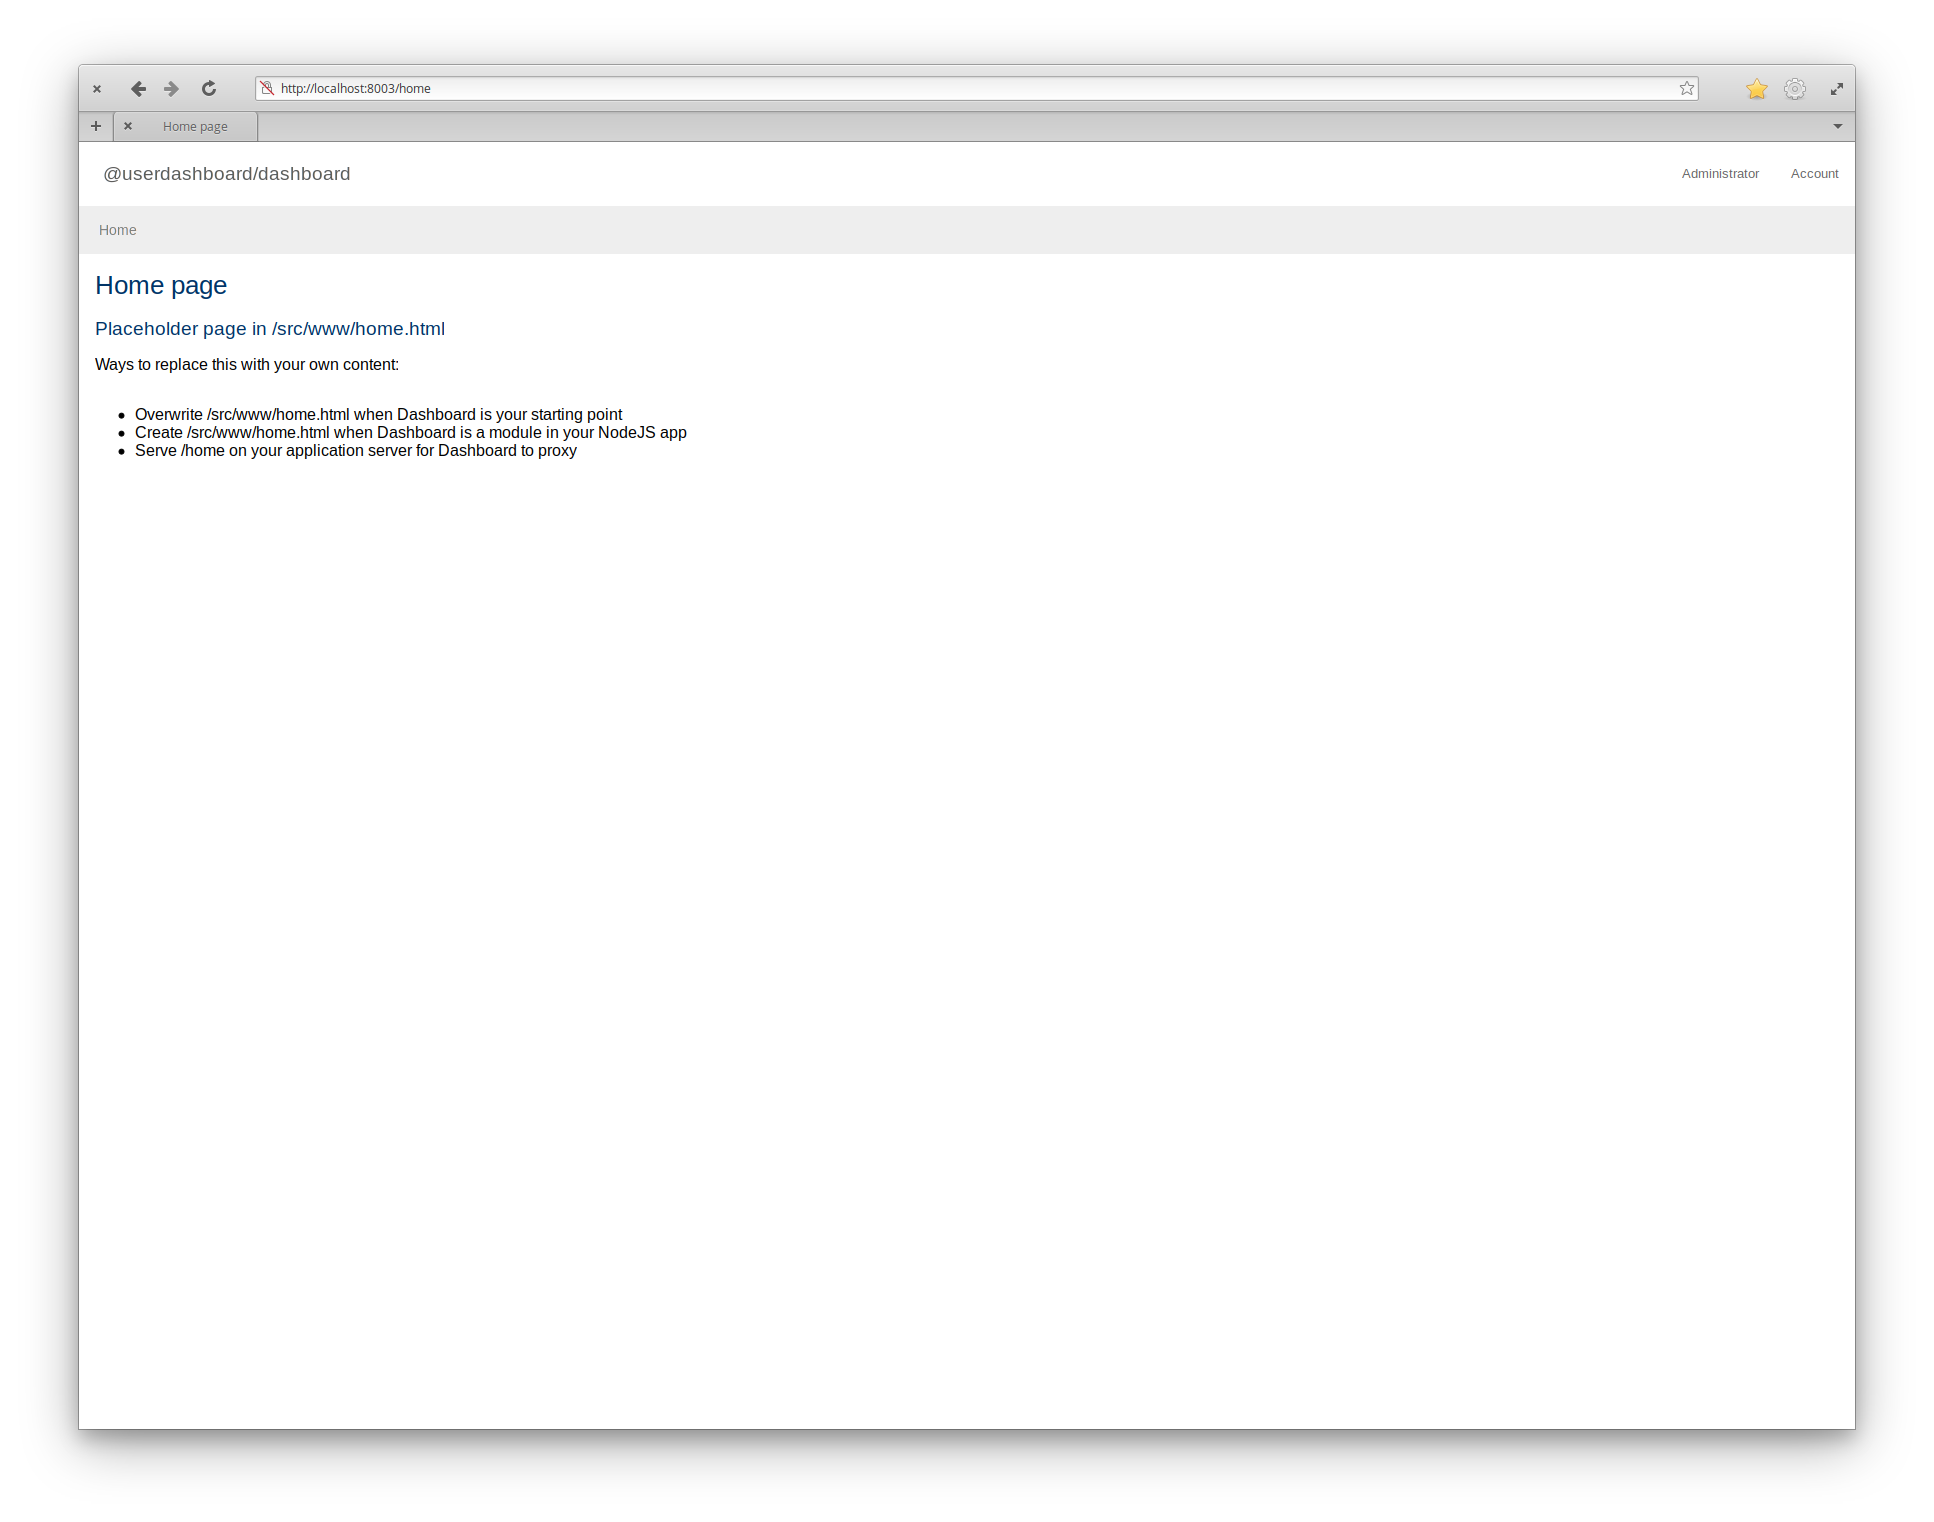
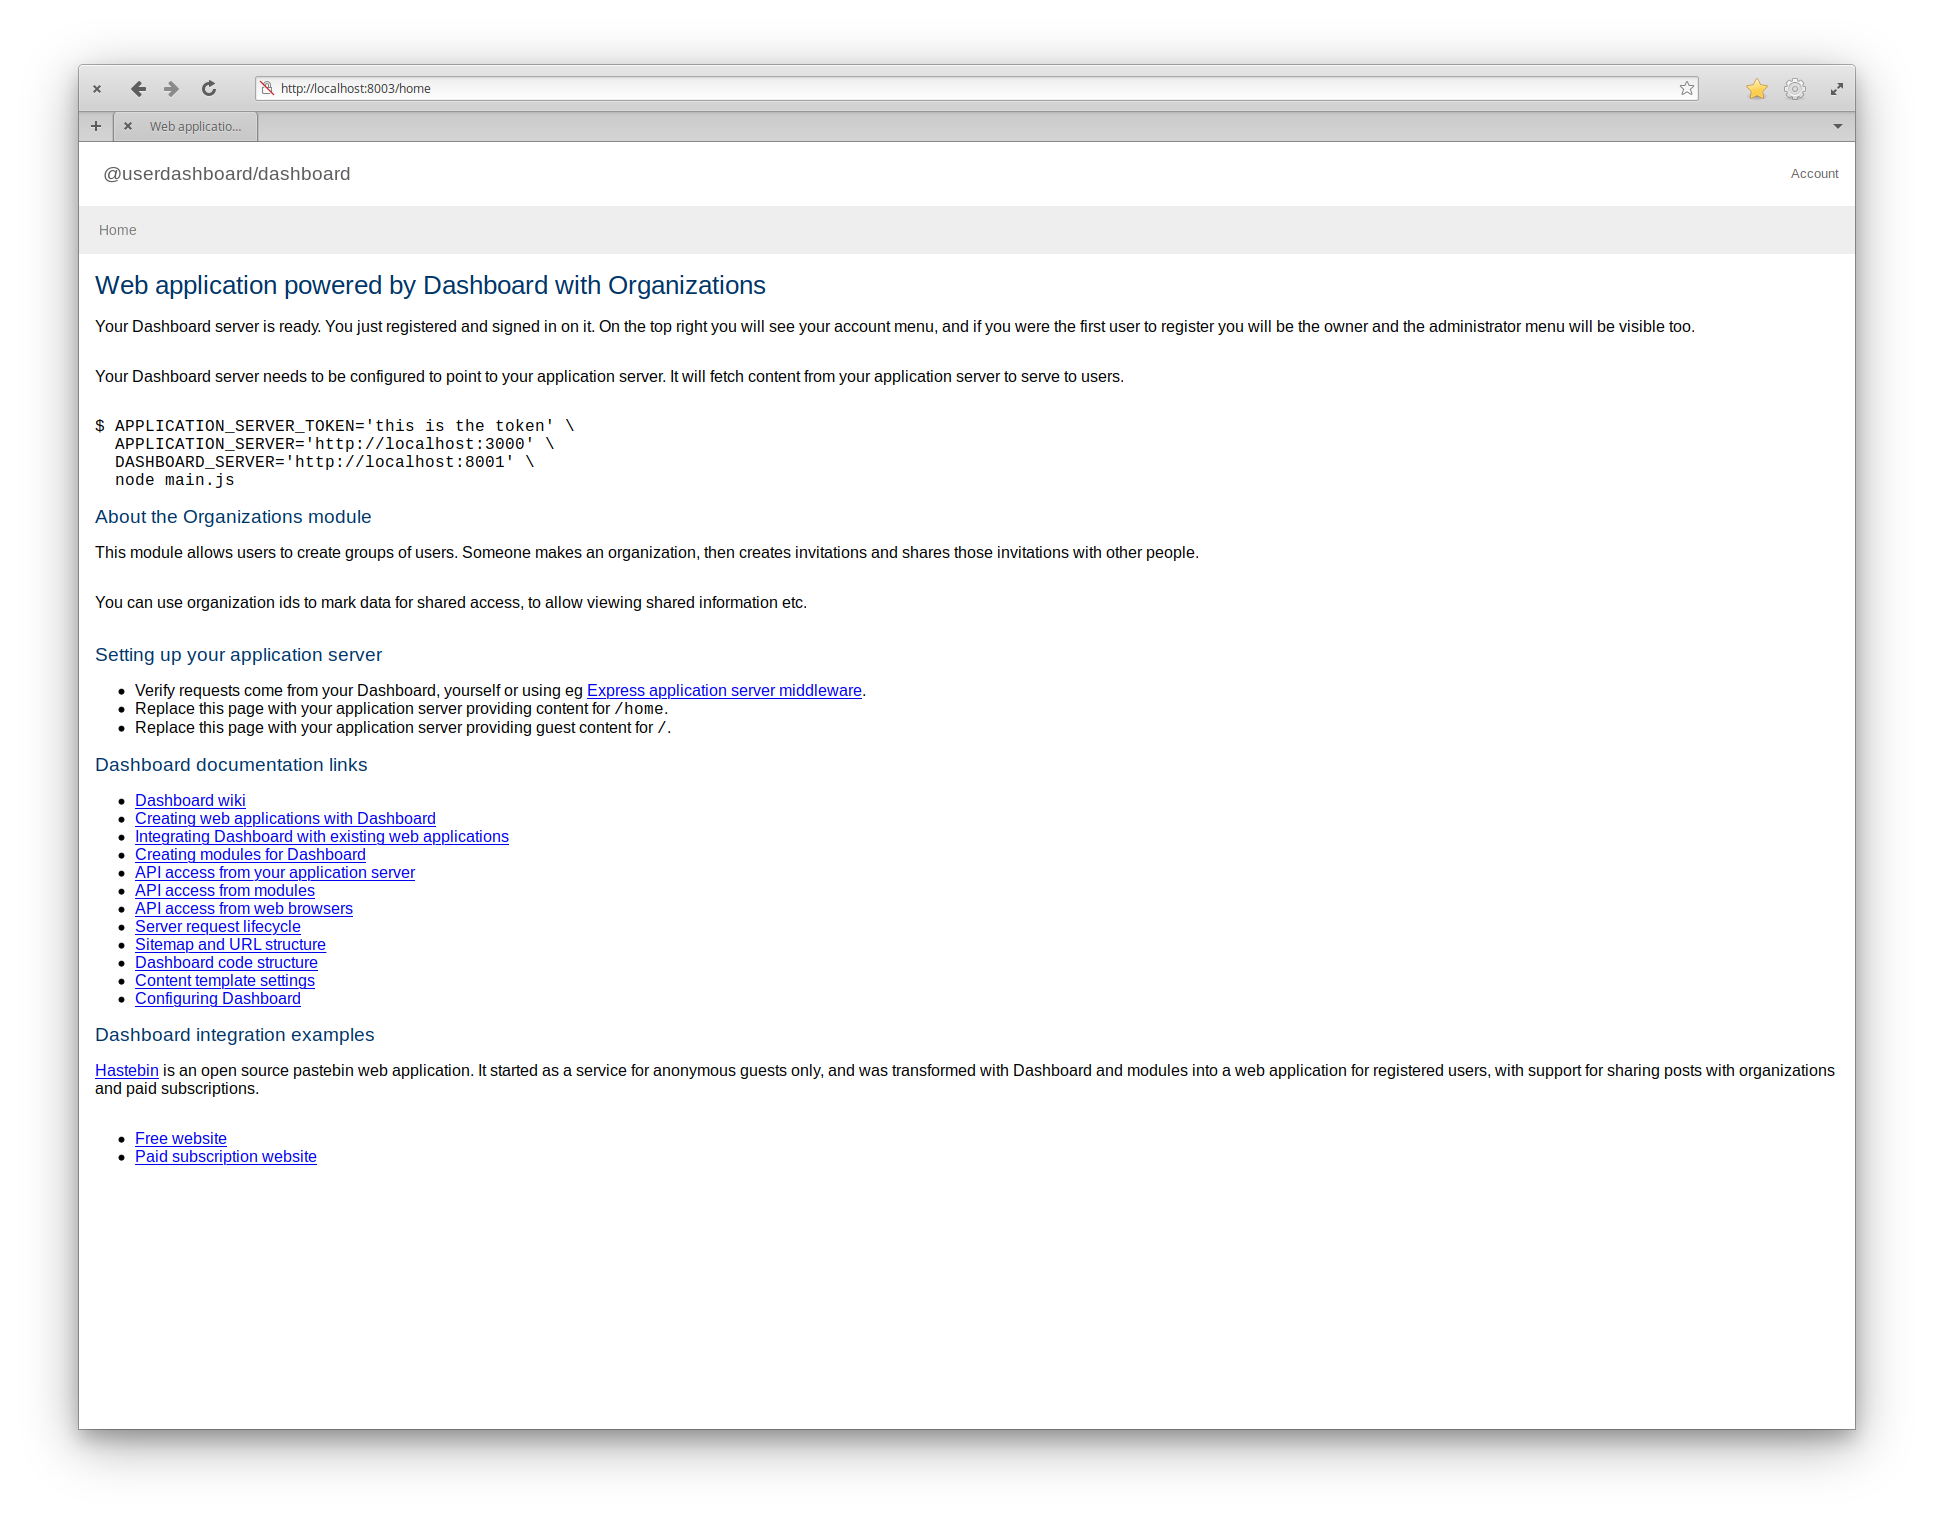
Updated sample home page with documentation links

diff --git a/src/www/home.html b/src/www/home.html
@@ -1,0 +1,50 @@
+<html>
+  <head>
+    <title>Web application powered by Dashboard with Organizations</title>
+    <link href="/public/pure-min.css" rel="stylesheet" />
+    <link href="/public/content.css" rel="stylesheet" />
+    <template id="navbar">
+      <a href="home">Home</a>
+    </template>
+    <base target="_top" href="/" />
+  </head>
+  <body>
+    <h1>Web application powered by Dashboard with Organizations</h1>
+    <p>Your Dashboard server is ready.  You just registered and signed in on it.  On the top right you will see your account menu, and if you were the first user to register you will be the owner and the administrator menu will be visible too.</p>  
+    <p>Your Dashboard server needs to be configured to point to your application server. It will fetch content from your application server to serve to users.</p>
+<pre>$ APPLICATION_SERVER_TOKEN="this is the token" \
+  APPLICATION_SERVER="http://localhost:3000" \
+  DASHBOARD_SERVER="http://localhost:8001" \
+  node main.js</pre>
+    <h2>About the Organizations module</h2>
+    <p>This module allows users to create groups of users.  Someone makes an organization, then creates invitations and shares those invitations with other people.</p>
+    <p>You can use organization ids to mark data for shared access, to allow viewing shared information etc.</p>
+    <h2>Setting up your application server</h2>
+    <ul>
+      <li>Verify requests come from your Dashboard, yourself or using eg <a href="https://github.com/userdashboard/express-application-server">Express application server middleware</a>.</li>
+      <li>Replace this page with your application server providing content for <code>/home</code>.</li>
+      <li>Replace this page with your application server providing guest content for <code>/</code>.</li>
+    </ul>
+    <h2>Dashboard documentation links</h2>
+    <ul>
+      <li><a href="https://github.com/userdashboard/dashboard/wiki">Dashboard wiki</a></li>
+      <li><a href="https://github.com/userdashboard/dashboard/wiki/Creating-web-applications-with-Dashboard">Creating web applications with Dashboard</a></li>
+      <li><a href="https://github.com/userdashboard/dashboard/wiki/Integrating-Dashboard-with-existing-web-applications">Integrating Dashboard with existing web applications</a></li>
+      <li><a href="https://github.com/userdashboard/dashboard/wiki/Creating-modules-for-Dashboard">Creating modules for Dashboard</a></li>
+      <li><a href="https://github.com/userdashboard/dashboard/wiki/API-access-from-application-server">API access from your application server</a></li>
+      <li><a href="https://github.com/userdashboard/dashboard/wiki/API-access-from-module">API access from modules</a></li>
+      <li><a href="https://github.com/userdashboard/dashboard/wiki/API-access-from-web-browser">API access from web browsers</a></li>
+      <li><a href="https://github.com/userdashboard/dashboard/wiki/Server-request-lifecycle">Server request lifecycle</a></li>
+      <li><a href="https://github.com/userdashboard/dashboard/wiki/Sitemap-and-URL-structure">Sitemap and URL structure</a></li>
+      <li><a href="https://github.com/userdashboard/dashboard/wiki/Dashboard-code-structure">Dashboard code structure</a></li>
+      <li><a href="https://github.com/userdashboard/dashboard/wiki/Content-template-settings">Content template settings</a></li>
+      <li><a href="https://github.com/userdashboard/dashboard/wiki/Configuring-Dashboard">Configuring Dashboard</a></li> 
+    </ul>
+    <h2>Dashboard integration examples</h2>
+    <p><a href="https://github.com/seejohnrun/haste-server">Hastebin</a> is an open source pastebin web application.  It started as a service for anonymous guests only, and was transformed with Dashboard and modules into a web application for registered users, with support for sharing posts with organizations and paid subscriptions.</p>
+    <ul>
+      <li><a href="https://github.com/userdashboard/integration-examples/blob/master/hastebin/hastebin-saas-free.md">Free website</a></li>
+      <li><a href="https://github.com/userdashboard/integration-examples/blob/master/hastebin/hastebin-saas-subscription.md">Paid subscription website</a></li>
+    </ul>
+  </body> 
+</html>
